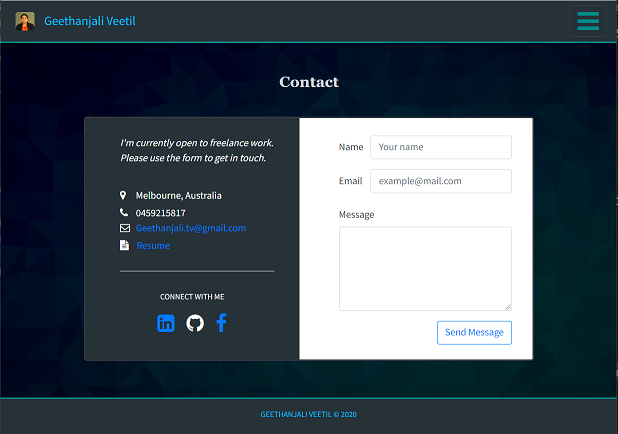
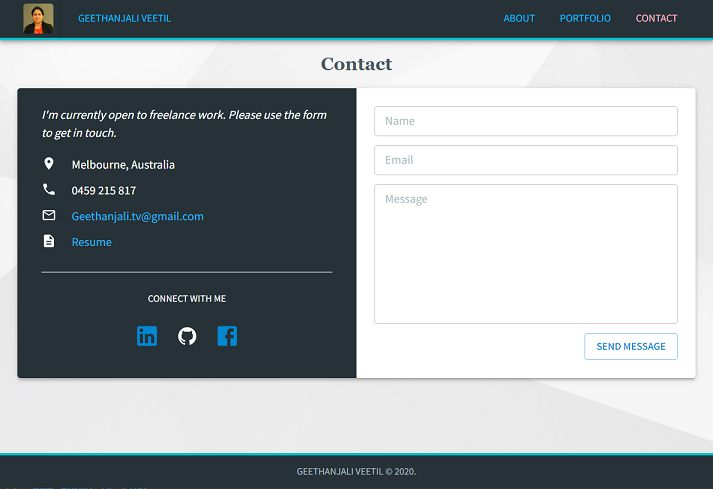
updated readme file

diff --git a/src/components/PortfolioDialog.js b/src/components/PortfolioDialog.js
@@ -13,13 +13,13 @@ export default function PortfolioDialog() {
 
     return (
         <div>
-            <Dialog
+            <Dialog fullWidth maxWidth='xs'
                 open={state.show}
                 onClose={handleClose}
                 aria-labelledby="dialog-title">
                 <DialogTitle id="dialog-title">Geethanjali Veetil</DialogTitle>
                 <DialogContent>
-                    <DialogContentText>
+                    <DialogContentText color="textPrimary">
                         {state.message}
                     </DialogContentText>
                 </DialogContent>
@@ -29,6 +29,6 @@ export default function PortfolioDialog() {
                     </Button>
                 </DialogActions>
             </Dialog>
-        </div>
+        </div >
     );
 }

diff --git a/README.md b/README.md
@@ -1,2 +1,49 @@
-# React-Portfolio
-Portfolio Website with personal and professional information about me and my work in Web Development.
+# My Portfolio Website
+
+## Description
+<br>
+
+![Portfolio Website](public/images/ReadMe_AboutMe.png "Portfolio Website")<br><br>
+
+This repository hosts my Portfolio Website. This website presents personal and professional information about me and showcases my work in Web Development. It also provides a simple contact form to allow visitors to reach me.
+
+Deployed Application: [https://gveetil.github.io/](https://gveetil.github.io/) 
+
+## Table of Contents 
+
+- [Technical Features](#technical-features)
+ - [Reusability](#reusability)
+ - [Responsive Web Design](#responsive-web-design)
+- [Usage Guidelines](#usage-guidelines)
+
+
+## Technical Features
+
+This application is built purely using React and Material UI and uses a json file as the data source. It is currently published as a static site on GitHub Pages. <br>
+
+### Reusability
+This application is built using React components to facilitate re-usability. 
+
+### Responsive Web Design 
+Responsive web design provides better accessibility and an optimal viewing experience to the user, by ensuring that web pages render well on different devices and window / screen sizes. To achieve this, I have used the Material UI components to build my pages.
+
+## Usage Guidelines
+
+The website has three main pages which are accessible via links in the navigation bar. These pages are as below:
+
+### About Me Page
+![About Me Page](public/images/ReadMe_AboutMe.png "About Me Page")<br><br>
+
+This is the default page of my website. It contains personal and professional information about me and has my image on it as well. 
+<br>
+### Portfolio Page
+![Portfolio Page](public/images/ReadMe_Portfolio.png "Portfolio Page")<br><br>
+
+The Portfolio page features a collection of the web projects that I have worked on. Clicking on a web project or on the *visit website* button takes the user to the corresponding project implementation, so they can view how it works. There is also a *view code* button that allows the user to view the code / GitHub repository behind the implemented site. 
+Based on the screen size the content on this page adjusts to display 3 projects, 2 projects or just 1 project at a time in each row.
+<br>
+### Contact Page
+![Contact Page](public/images/ReadMe_Contact.png "Contact Page")<br><br>
+
+The Contact page contains a simple form that allows site visitors to reach me. On submission, the form data is checked to ensure all fields are filled in. If the form data is complete, it is sent to me as an e-mail and a *success* message is displayed if successful. In case of missing data, the user is prompted to complete all fields in the form. The form also displays my contact details and social information about me.
+
